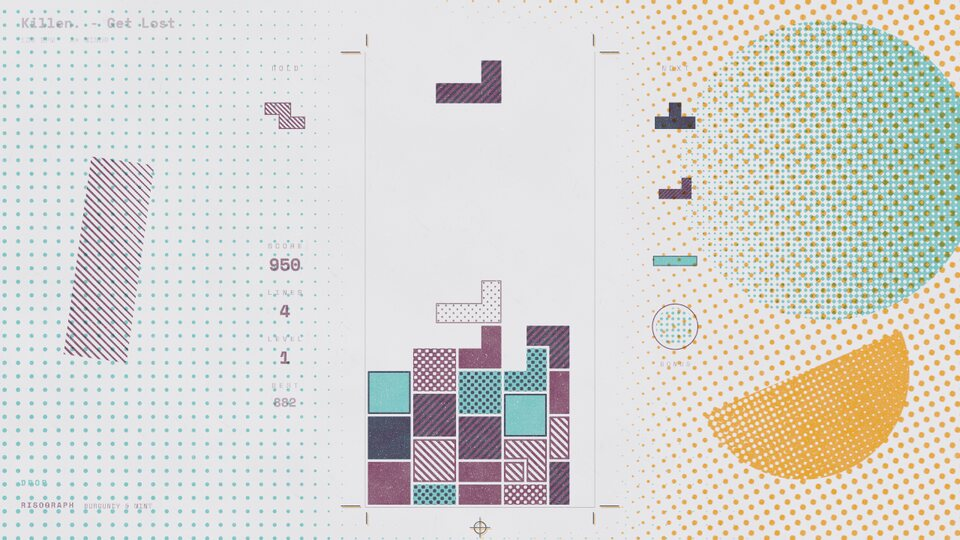
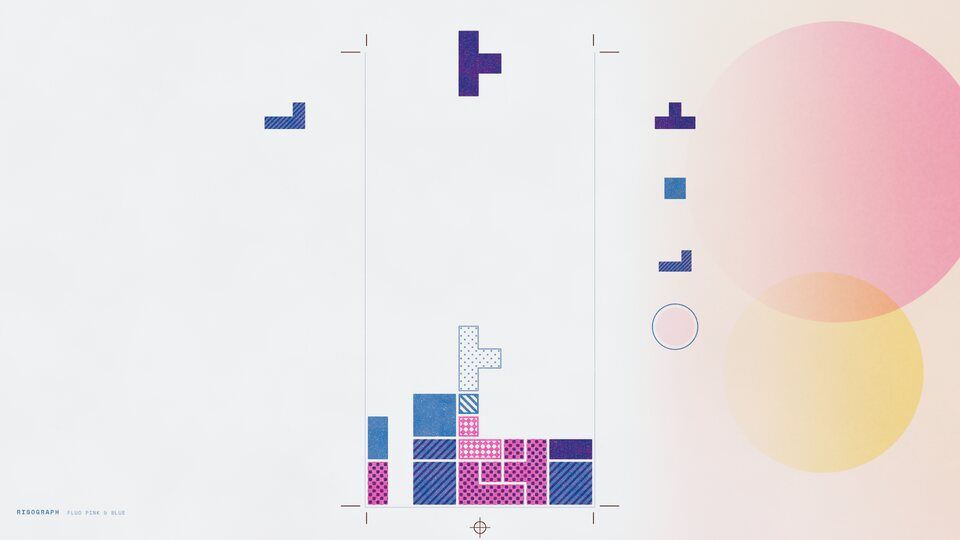
RISOGRAPH: clearer calm/mid/peak densities, flat gauge tint; docs: soft backgrounds and still play area on drops
Claude-Session: https://claude.ai/code/session_01DBPtRFs6M8Q4o53Qj6BCRE

diff --git a/src/universes/risograph/risograph.cpp b/src/universes/risograph/risograph.cpp
@@ -1,27 +1,28 @@
 // RISOGRAPH: a two-ink risograph print.
 //
-// One world: the whole frame is a print of two spot inks on a paper stock (a third ink joins at the peaks). Every
-// mark is ink laid by one drum: flat shapes, halftone tints (dots at a fixed angle per drum, or a line screen),
-// overprints darkening where two inks cross, a riso grain in the ink. The drums are never quite in register, and
-// that registration is the music's signature: calm is an almost still print, slightly off; mid lets the second
-// drum breathe with the tempo while the screens drift; the peak floods the sheet with the third ink from the
-// shapes' side (slammed in solid on the drop, settling) and overprints its big flat shape, the kicks knock the drums out of register and the shapes are re-printed elsewhere on the beats of a bar.
-// Lots of paper, little else: the world is one big halftone disc, a screened band and, at the peaks, the third
-// ink's shape; no scenery.
+// One world: the whole frame is a print of two spot inks on a paper stock (a third ink joins at the peaks). The
+// pieces are flat ink shapes and screened tints; the background is soft: big flat shapes and broad gradients of
+// ink density on the paper (a riso gradient, a fine grain, no visible screen), kept off the well and the text's
+// side. Calm is a pale gradient disc on the paper; mid deepens it and the second ink's gradient across the sheet;
+// the peak brings the third ink's shape and a broad bloom of it from the shapes' edge, which swells in on the drop
+// (a third of a second in, slow to settle) and breathes with the kicks, by density only. Only the background's
+// drums are out of register, slightly and slowly: the stack, the pieces and the HUD never move with the music.
+// Lots of paper, little else; no scenery.
 //
 // The pieces are flat ink shapes, each type its own ink recipe (a solid ink, the overprint of both, a solid with
 // the other ink's dots, a hatched tint with a keyline...), so the seven types read by color and pattern in every
 // variant; the cells of one piece print as one clean shape and two pieces always keep a hairline of paper between
-// them. A lock knocks the piece's inks a hair out of place at the impact; a cleared row is torn off as a strip of
-// paper (ragged edges, its dots shrinking away); a Tetris stamps the third ink in one huge disc over the sheet;
+// them. A lock presses a soft blot of the second ink out under the piece; a cleared row is torn off as a strip of
+// paper (ragged edges, its dots shrinking away); a Tetris stamps the third ink in one huge soft disc over the sheet;
 // slow motion is a monotone print (one ink, the drums locked in register); game over runs the drum dry, the stack
 // fading in streaks. A change of universe lifts the ink off the paper, leaving the stack plain.
 //
-// Rendering: every mark goes into one ink buffer (one channel per drum, screened where drawn), then COMPOSITE_FS
-// prints the drums on the paper, each with its own registration offset (see shaders.hpp).
+// Rendering: the background goes into its own buffer (continuous densities), the stack, the marks and the HUD into
+// the ink buffer (one channel per drum, screened where drawn); COMPOSITE_FS prints both on the paper, only the
+// background with a registration offset (see shaders.hpp).
 //
 // Layout contract: a flat orthographic view at the reference camera's scale on the board plane (like SUMI); the
-// misregistration only moves the second and third drums by a few hundredths of a cell.
+// stack and the HUD are always printed in register.
 #include "universes/risograph/risograph.hpp"
 
 #include <algorithm>
@@ -928,7 +929,7 @@ void RisographUniverse::render(const Frame& f, GLuint fbo) {
         const float breath = kickEnv_; // 0..1, smooth
         const float dropSwell = dropT_ < 9.f ? smoothstepf(0.f, 0.35f, dropT_) * std::exp(-std::max(0.f, dropT_ - 0.35f) * 0.45f) * dropAmp_ : 0.f;
         const float tame = 1.f - 0.25f * dark_; // inks laid like light on black paper glow more: keep them lower
-        const float dens[3] = {(0.30f + 0.10f * wm + 0.14f * wp + 0.08f * breath + 0.1f * dropSwell) * pres_[0] * tame,
+        const float dens[3] = {(0.2f + 0.18f * wm + 0.14f * wp + 0.08f * breath + 0.1f * dropSwell) * pres_[0] * tame,
                                0.f, // A's band: retired (it read as a grey bar); the key ink stays for the stack and the HUD
                                (0.55f + 0.12f * breath + 0.15f * dropSwell) * pres_[2] * tame};
         const float drum[3] = {1.f, 0.f, 2.f};
@@ -961,7 +962,7 @@ void RisographUniverse::render(const Frame& f, GLuint fbo) {
         // the sheet: B's faint gradient from the shapes' side (deeper from mid), and the peak's bloom of C, which
         // swells on the drop and breathes with the kicks (density only)
         const float bloom = (0.20f + 0.10f * breath + 0.22f * dropSwell) * bloom_ * world * (1.f - 0.6f * slow_) * tame;
-        const float wash = (0.07f + 0.07f * wm + 0.03f * breath) * world * tame;
+        const float wash = (0.03f + 0.1f * wm + 0.03f * breath) * world * tame;
         set1f(progWorld_, "uSide", (float)side_);
         set4f(progWorld_, "uWell", 0.f, 0.f, 5.f, 10.f);
         set4f(progWorld_, "uSheet", bloom, wash, std::atan2(-0.35f, 1.f * side_), drift_);

diff --git a/docs/universes.md b/docs/universes.md
@@ -74,7 +74,7 @@ A snowfield under the stars: snowy ranges and a dark treeline on the horizon, a 
 
 ![RISOGRAPH](universes/risograph.jpg)
 
-A risograph print: the whole frame is two spot inks on a paper stock, a third ink joining at the peaks. Every mark is laid by one drum: flat shapes, halftone tints (dots at a fixed angle per drum, or a line screen), overprints darkening where two inks cross, a riso grain in the ink; and the drums are never quite in register, the misregistration being the music's signature. Lots of paper, little else: each variant has its own neutral stock (a cool white, light grey, pale blue, pink or mint, two blacks; never cream) with a tooth, a cloudy formation and a few fibers, a faint coarse wash of the second ink fading in from the corner away from the shapes; the world is one big halftone disc fading toward the well, a screened band and, at the peaks, the third ink's shape overprinting them. The well is marked by crop marks and a registration target printed by every drum (so the registration shows right around the stack), with hairline trims; the pieces are flat ink shapes, each type its own recipe (a solid ink, the overprint of both, a solid with the other ink's dots, a hatched tint with a keyline...), so the seven types read by color and pattern; the cells of one piece print as one clean shape, two pieces always keep a hairline of paper between them; the ghost is a keyline and a light tint. Eight ink sets, each with its own pieces through its inks (FLUO PINK & BLUE, TEAL & YELLOW, RED & FEDERAL BLUE, BLACK & FLUO PINK, VIOLET & GREEN, BURGUNDY & MINT, and on black paper, where the inks lie like light, YELLOW & PURPLE and AQUA & ORANGE), from the key, mode, brightness and dynamics (`--universe "risograph:teal & yellow"`). Calm is an almost still print, slightly off register; mid adds the band, lets the second drum breathe with the tempo and the screens drift; peak floods the sheet with the third ink in a coarse screen from the shapes' side (its dots growing away from the well, the text's side left clear) and brings the third ink's shape, which beats with the music; the kicks knock the drums hard out of register and swell the flood's dots, the shapes' dots swell on the beats and the shapes are re-printed elsewhere on the beats of every other bar (their dots shrink, then grow at the new place); the drop slams the flood in almost solid, settling to its peak tint over about a second, while the drums slam out of register and spring back. A lock knocks the piece's inks a hair down at the impact, a cleared row is torn off as a strip (ragged edges, its dots shrinking away in under half a second), a Tetris stamps the third ink in one huge halftone disc over the sheet, slow motion is a monotone print (one ink, the drums locked in register), game over runs the drum dry (the stack fading in vertical streaks); it leaves and enters with the ink lifting off the paper (the shapes' dots shrinking), the stack left plain. The bonus gauge is a keyline circle filling by its dots growing. Its HUD font is Space Mono (SIL Open Font License, `src/universes/risograph/OFL-SpaceMono.txt`).
+A risograph print: the whole frame is two spot inks on a paper stock, a third ink joining at the peaks. The pieces and the marks are laid by the drums as flat shapes and halftone tints (dots at a fixed angle per drum, or a line screen), overprints darkening where two inks cross, a riso grain in the ink; the background is soft, a riso gradient print: big flat shapes and broad gradients of ink density on the paper, with a fine, almost invisible grain and no visible screen, kept off the well and the text's side so that the HUD reads cleanly. Only the background's drums are slightly out of register (drifting slowly); the stack, the pieces and the HUD are always printed in register. Lots of paper, little else: each variant has its own neutral stock (a cool white, light grey, pale blue, pink or mint, two blacks; never cream) with a faint tone and tooth; the world is one big gradient disc fading toward the well and, at the peaks, the third ink's shape overprinting it. The well is marked by crop marks and a registration target, with hairline trims; the pieces are flat ink shapes, each type its own recipe (a solid ink, the overprint of both, a solid with the other ink's dots, a hatched tint with a keyline...), so the seven types read by color and pattern; the cells of one piece print as one clean shape, two pieces always keep a hairline of paper between them; the ghost is a keyline and a light tint. Eight ink sets, each with its own pieces through its inks (FLUO PINK & BLUE, TEAL & YELLOW, RED & FEDERAL BLUE, BLACK & FLUO PINK, VIOLET & GREEN, BURGUNDY & MINT, and on black paper, where the inks lie like light, YELLOW & PURPLE and AQUA & ORANGE), from the key, mode, brightness and dynamics (`--universe "risograph:teal & yellow"`). Calm is a still print, a pale gradient disc on the paper; mid deepens the disc and the second ink's gradient across the sheet, the shapes floating very slowly; peak brings the third ink's shape and a broad bloom of the third ink from the shapes' edge of the sheet. The drop blooms it in over about a third of a second and swells it, settling over a few seconds; the kicks breathe the inks' density (about 0.2 s in, 0.5 s out) and swell the shapes by a few percent. Nothing jumps, slides or re-composes, and nothing in the play area moves with the music. A lock presses a small soft blot of the second ink out under the piece, a cleared row is torn off as a strip (ragged edges, its dots shrinking away in under half a second), a Tetris stamps the third ink in one huge soft disc over the sheet, slow motion is a monotone print (one ink, the drums locked in register), game over runs the drum dry (the stack fading in vertical streaks); it leaves and enters with the ink lifting off the paper, the stack left plain. The bonus gauge is a keyline circle filling with a deepening tint. Its HUD font is Space Mono (SIL Open Font License, `src/universes/risograph/OFL-SpaceMono.txt`).
 
 ## Transitions between universes
 
@@ -122,7 +122,7 @@ others are ideas waiting to be built. To build one, see [Adding a universe](addi
 | 9 | WATERCOLOR | A landscape in transparent washes on cold-press paper: granulation, blooms, dried rims; pigment-wash pieces, pencil ghost | Beats drop pigment into wet washes; peak adds saturated glazes; clears dissolve back into the paper | ✅ |
 | 10 | SMOKE | Volumetric smoke and one hard spotlight on a black stage; satin blocks caught in the key light | The smoke swirls with the bass; peak = more light cuts through; a Tetris blows a smoke ring | ✅ |
 | 11 | WHITE ROOM | Pure white space, soft shadows only, product-design minimalism | Shadows lengthen with the phases; beats press the blocks gently | |
-| 12 | RISOGRAPH | Two-ink riso print (fluo pink + blue), halftone grain, misregistration | Beats shift the ink registration; peak adds a third overprinted ink; clears are torn-off strips | ✅ |
+| 12 | RISOGRAPH | Two-ink riso print (fluo pink + blue), soft ink gradients, halftone pieces | Kicks breathe the inks' density; peak blooms a third ink; clears are torn-off strips | ✅ |
 | 13 | KINTSUGI | Black marble, gold-filled cracks | Cleared rows crack and fall away; gold veins spread through the marble at peak | |
 | 14 | LASER SHOW | Volumetric laser beams in haze, a few at a time | Beams pivot slowly with the bands; drops open full laser fans; cleared cells burn out | |
 | 15 | OP ART | Black and white Bridget Riley stripes and moirés, calm and never flickering | The stripe field bends around the stack; beats ripple it gently; peak makes the whole field undulate | |

diff --git a/docs/adding-a-universe.md b/docs/adding-a-universe.md
@@ -55,6 +55,11 @@ strobing (one soft flash on the drop is fine).
   dither checkerboards, pixelation or scattered flickering cells over the screen.
 - The stack must contrast clearly with what is behind it, in every variant (pale pieces on a pale sky do not
   read).
+- Background textures stay soft (smooth gradients, a fine grain, a paper tone), never a pattern of visible dots,
+  hatches or marks behind the UI: RISOGRAPH's halftone washes across the sheet were "totally ruining the UI".
+- Drops never move the stack, the pieces, the previews or the HUD (no registration offset, shake or jolt on them),
+  and large background motion stays slow (no big shapes jumping, sliding or re-composing on beats): fast moving
+  shapes on a drop cause nausea. Show the drop with color, density and slow envelopes instead.
 - Merging cells into one shape is fine when it is the universe's design (one brush stroke per piece in SUMI),
   never by accident (different pieces of the same color fusing).
 
